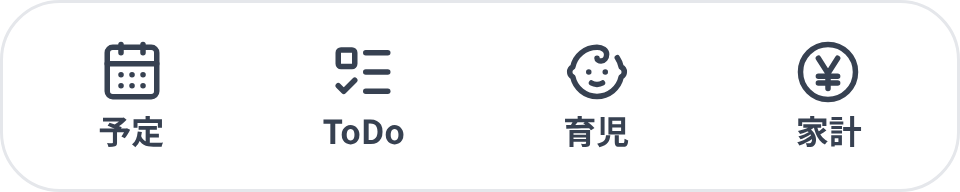
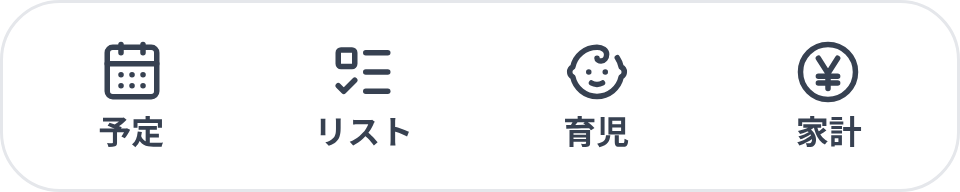
「ToDo」タブの名前を「リスト」に戻す
- 下のタブ・最初のタブの選択肢・リストの選択の空表示・タブのウィジェットの名前（mobile・PWA版とも）
- タブのウィジェットの追加画面の見本を作り直す

Claude-Session: https://claude.ai/code/session_01GrwNpQrqdVn461n6pnPzDs

Changed region(s): [[0.3125, 0.625, 0.4375, 0.75]]

diff --git a/src/components/sukusuku/SukusukuApp.tsx b/src/components/sukusuku/SukusukuApp.tsx
@@ -146,13 +146,13 @@ const HokatsuTab = dynamic(() => import('./tabs/HokatsuTab'), { loading: TabFall
 const InfoTab = dynamic(() => import('./tabs/InfoTab'), { loading: TabFallback });
 const MoneyTab = dynamic(() => import('./tabs/MoneyTab'), { loading: TabFallback });
 
-// 予定・ToDo・育児・家計・その他の5つ（docs/family-app.md §4.1・docs/kakei.md §2）。mobile版の app/(tabs)/_layout.tsx と同じ。
+// 予定・リスト・育児・家計・その他の5つ（docs/family-app.md §4.1・docs/kakei.md §2）。mobile版の app/(tabs)/_layout.tsx と同じ。
 // 暮らしタブは2026-10-10に廃止した。2026-10-13にタブを改め、リストタブを「ToDo」、設定タブを「その他」にした
 // （防災備蓄・福引チャンス・保活・契約・設定はその他タブから開く。docs/family-app.md §4.5）。
 // タブのid（'list'・'info'）と DB の users.start_tab の値（'list'・'settings'）は変えていない。
 const NAV_ITEMS: { id: TabId; icon: ComponentType<{ size?: number; className?: string }>; label: string }[] = [
   { id: 'schedule', icon: CalendarDays, label: '予定' },
-  { id: 'list', icon: ListTodo, label: 'ToDo' },
+  { id: 'list', icon: ListTodo, label: 'リスト' },
   { id: 'care', icon: Baby, label: '育児' },
   { id: 'money', icon: YenCoinIcon, label: '家計' },
   { id: 'info', icon: Ellipsis, label: 'その他' },

diff --git a/mobile/app/(tabs)/_layout.tsx b/mobile/app/(tabs)/_layout.tsx
@@ -3,7 +3,7 @@ import { Baby, CalendarDays, Ellipsis, ListTodo } from 'lucide-react-native';
 import { colors } from '@/lib/theme';
 import YenCoinIcon from '@/components/ui/YenCoinIcon';
 
-// 下のタブバー。予定・ToDo・育児・家計・その他の5つ（docs/family-app.md §4.1・docs/kakei.md §2）。
+// 下のタブバー。予定・リスト・育児・家計・その他の5つ（docs/family-app.md §4.1・docs/kakei.md §2）。
 // 暮らしタブは2026-10-10に廃止した。2026-10-13にタブを改め、リストタブを「ToDo」、設定タブを「その他」にした
 // （防災備蓄・福引チャンス・保活・契約・設定はその他タブから開く。docs/family-app.md §4.5）。
 // ファイル名（list.tsx・info.tsx）と DB の users.start_tab の値（'list'・'settings'）は変えていない。
@@ -38,7 +38,7 @@ export default function TabsLayout() {
       <Tabs.Screen
         name="list"
         options={{
-          title: 'ToDo',
+          title: 'リスト',
           tabBarIcon: ({ color }) => <ListTodo size={22} color={color} />,
         }}
       />

diff --git a/src/components/sukusuku/modals/ListPickerModal.tsx b/src/components/sukusuku/modals/ListPickerModal.tsx
@@ -22,7 +22,7 @@ export default function ListPickerModal({ lists, selectedId, onClose, onPick }: 
       footer={<p className="text-[11px] text-gray-400 text-center">この端末で覚えます。あとで「送り先」から変えられます</p>}
     >
       {lists.length === 0 ? (
-        <p className="text-sm text-gray-500 text-center py-4">リストがまだありません。ToDoタブで作ってください</p>
+        <p className="text-sm text-gray-500 text-center py-4">リストがまだありません。リストタブで作ってください</p>
       ) : (
         <ul className="rounded-xl border border-gray-200 divide-y divide-gray-200 overflow-hidden">
           {lists.map((list) => {

diff --git a/mobile/src/widgets/icons.ts b/mobile/src/widgets/icons.ts
@@ -22,7 +22,7 @@ const SHAPES: Record<WidgetIconName, string> = {
   schedule:
     '<path d="M8 2v3"/><path d="M16 2v3"/><rect x="3" y="3" width="18" height="18" rx="2"/><path d="M3 9h18"/>' +
     '<path d="M8 13h.01"/><path d="M12 13h.01"/><path d="M16 13h.01"/><path d="M8 17h.01"/><path d="M12 17h.01"/><path d="M16 17h.01"/>',
-  // lucide: ListTodo（ToDoタブ）
+  // lucide: ListTodo（リストタブ）
   list: '<path d="M13 5h8"/><path d="M13 12h8"/><path d="M13 19h8"/><path d="m3 17 2 2 4-4"/><rect x="3" y="4" width="6" height="6" rx="1"/>',
   // lucide: Baby（育児タブ）
   care:

diff --git a/mobile/src/components/living/ListPickerSheet.tsx b/mobile/src/components/living/ListPickerSheet.tsx
@@ -20,7 +20,7 @@ export default function ListPickerSheet({ lists, selectedId, onClose, onPick }: 
     <SheetModal visible onClose={onClose}>
       <LogModalShell title="送り先のリスト" onClose={onClose}>
         {lists.length === 0 ? (
-          <Text style={styles.empty}>リストがまだありません。ToDoタブで作ってください</Text>
+          <Text style={styles.empty}>リストがまだありません。リストタブで作ってください</Text>
         ) : (
           <View style={styles.card}>
             {lists.map((list, index) => {

diff --git a/mobile/src/types/app.ts b/mobile/src/types/app.ts
@@ -267,7 +267,7 @@ export interface FamilyMember {
 /** 授乳の入力画面で「搾乳」を選んだときの、飲ませた分か搾った分かの切り替え。 */
 export type FeedingEntryMode = 'feed' | 'pump';
 
-// 予定・ToDo・育児・家計・その他の5つ（docs/family-app.md §4.1）。
+// 予定・リスト・育児・家計・その他の5つ（docs/family-app.md §4.1）。
 export type TabId = 'schedule' | 'list' | 'care' | 'money' | 'info';
 
 // スケジュールタブの表示切り替え。既定は月（カレンダー）。

diff --git a/src/types/app.ts b/src/types/app.ts
@@ -296,7 +296,7 @@ export interface ListItem {
   position: number;
 }
 
-// 予定・ToDo・育児・家計・その他の5つ（docs/family-app.md §4.1）。
+// 予定・リスト・育児・家計・その他の5つ（docs/family-app.md §4.1）。
 export type TabId = 'schedule' | 'list' | 'care' | 'money' | 'info';
 
 // スケジュールタブの表示切り替え。既定は月（カレンダー）。

diff --git a/mobile/app.config.js b/mobile/app.config.js
@@ -49,7 +49,7 @@ module.exports = {
             {
               name: 'TabLauncher',
               label: 'タブ',
-              description: '予定・ToDo・育児・家計をワンタップで開く',
+              description: '予定・リスト・育児・家計をワンタップで開く',
               minWidth: '250dp',
               minHeight: '40dp',
               targetCellWidth: 4,

diff --git a/mobile/src/widgets/LauncherWidget.tsx b/mobile/src/widgets/LauncherWidget.tsx
@@ -12,7 +12,7 @@ import type { WidgetIconName } from './icons';
 
 const TABS: { tab: TabId; icon: WidgetIconName; label: string }[] = [
   { tab: 'schedule', icon: 'schedule', label: '予定' },
-  { tab: 'list', icon: 'list', label: 'ToDo' },
+  { tab: 'list', icon: 'list', label: 'リスト' },
   { tab: 'care', icon: 'care', label: '育児' },
   { tab: 'money', icon: 'money', label: '家計' },
 ];

diff --git a/mobile/src/lib/api/me.ts b/mobile/src/lib/api/me.ts
@@ -77,7 +77,7 @@ export const START_TABS: StartTab[] = ['schedule', 'list', 'care', 'money', 'set
 
 export const START_TAB_LABEL: Record<StartTab, string> = {
   schedule: '予定',
-  list: 'ToDo',
+  list: 'リスト',
   care: '育児',
   money: '家計',
   settings: 'その他',

diff --git a/src/lib/api/me.ts b/src/lib/api/me.ts
@@ -13,7 +13,7 @@ export const START_TABS: StartTab[] = ['schedule', 'list', 'care', 'money', 'set
 
 export const START_TAB_LABEL: Record<StartTab, string> = {
   schedule: '予定',
-  list: 'ToDo',
+  list: 'リスト',
   care: '育児',
   money: '家計',
   settings: 'その他',

diff --git a/docs/family-app.md b/docs/family-app.md
@@ -150,7 +150,7 @@
 | 順 | タブ | アイコン（案） | 中身 |
 |---|---|---|---|
 | 1 | 予定 | CalendarDays | 現状のまま |
-| 2 | ToDo（旧リスト） | ListTodo | 現状のまま（名称のみ変更。2026-10-13） |
+| 2 | リスト | ListTodo | 現状のまま（2026-10-13に「ToDo」へ改めたが、2026-10-14に「リスト」へ戻した） |
 | 3 | 育児 | Baby | §4.2 |
 | 4 | 家計 | 円マーク入りの硬貨（`YenCoinIcon`） | docs/kakei.md |
 | 5 | その他（旧設定） | Ellipsis | §4.5 |
@@ -158,6 +158,7 @@
 - **2026-10-13: タブを再構成した。** リストタブを「ToDo」に、設定タブを「その他」に改め、家計のアイコンを財布から
   円マーク入りの硬貨に変えた（お金のタブだと一目で分かるように）。ファイル名・タブのid（`list`・`info`）と
   DB の `users.start_tab` の値（`'list'`・`'settings'`）は変えていない（本番の値を書き換えないため）。
+- **2026-10-14: 「ToDo」タブの名前を「リスト」に戻した。** 名前だけで、アイコン（ListTodo）と中身は変えていない。
   表示名だけが変わる（`START_TAB_LABEL`）
 
 - ホーム・記録・保活の3タブは削除。アプリを開いたときの最初のタブは、設定で各自が選ぶ（§3.4）
